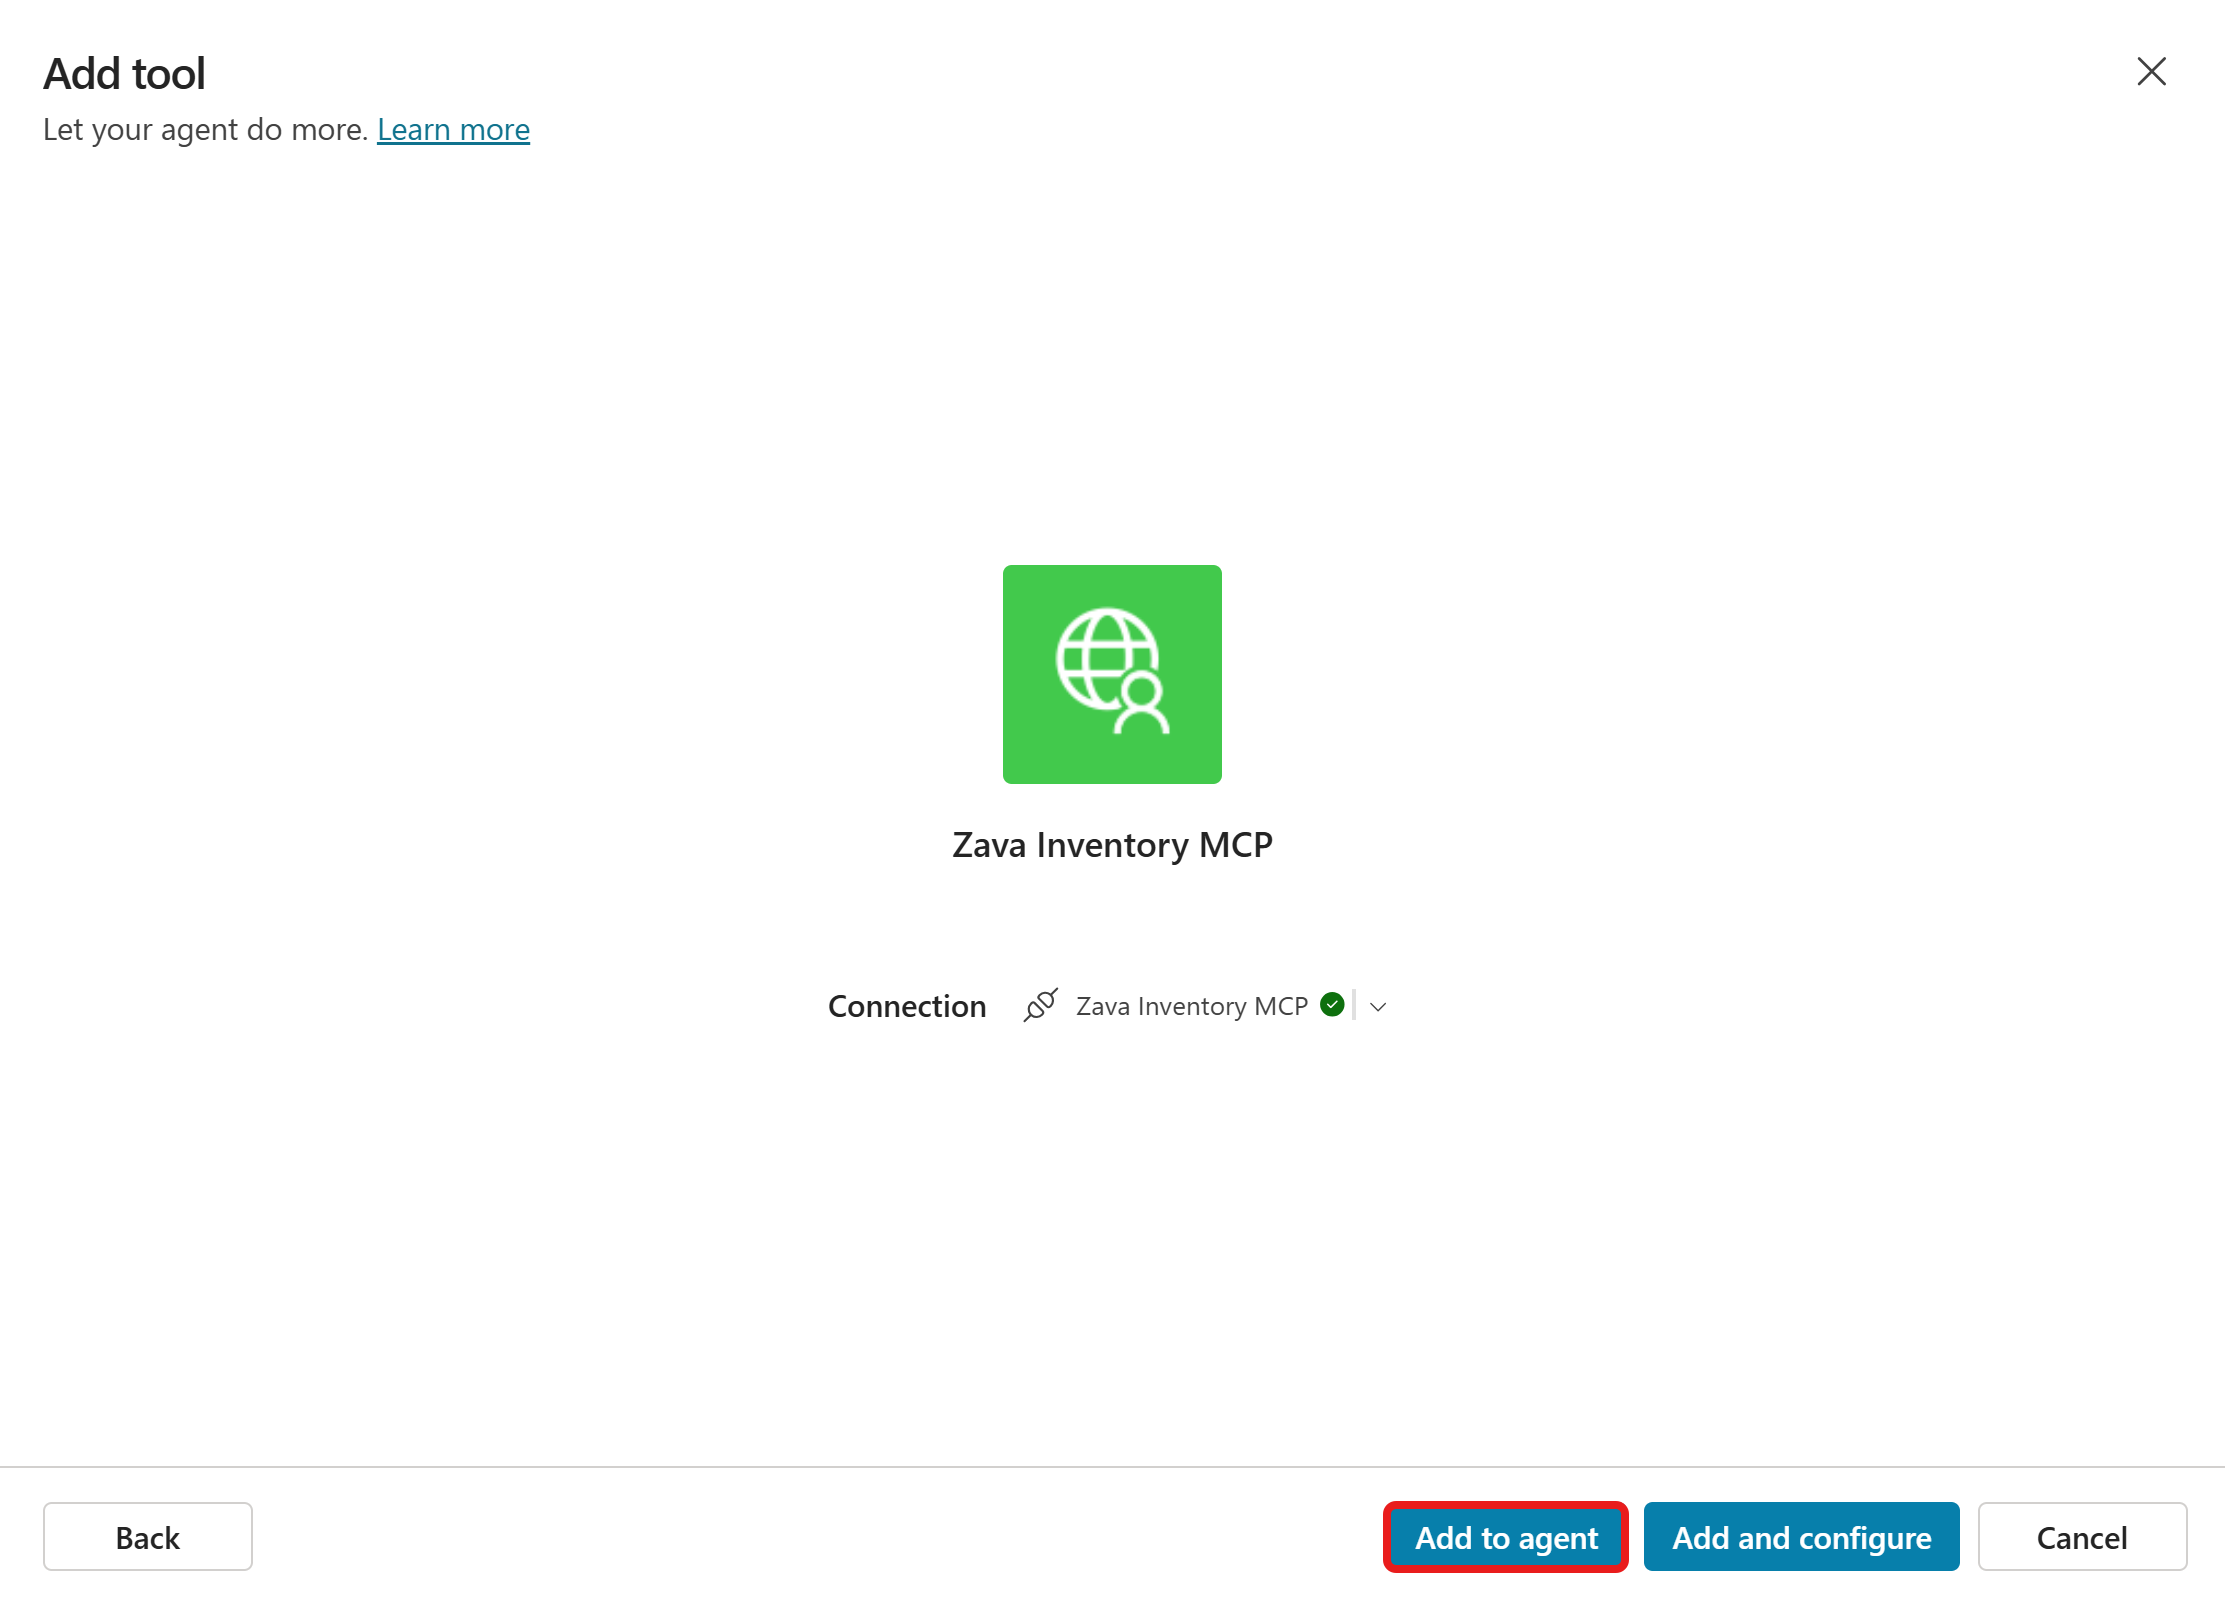
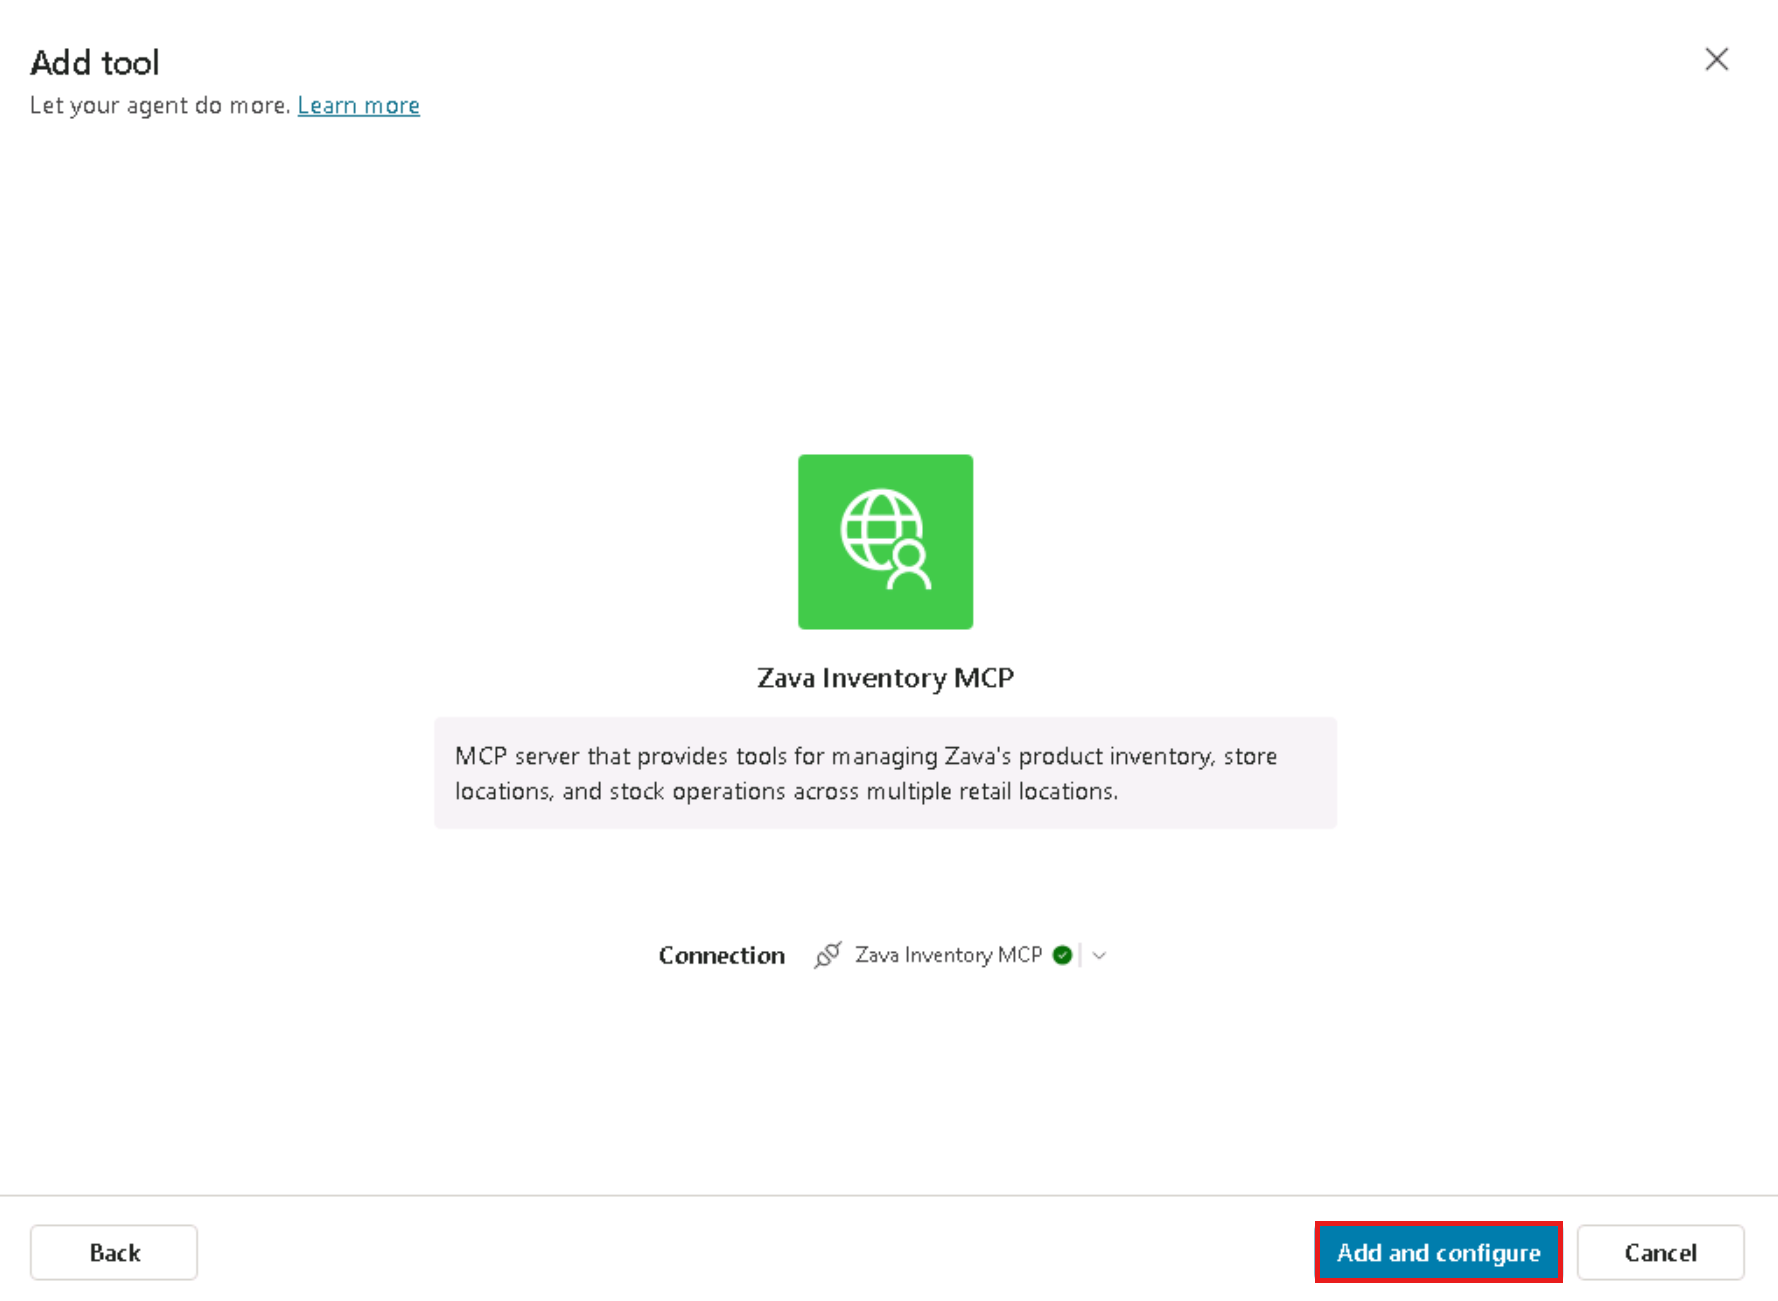
Added new instructions

diff --git a/lab/instructions/01-Build-Your-Agent-preview.md b/lab/instructions/01-Build-Your-Agent-preview.md
@@ -1,0 +1,138 @@
+# 1 - Build your agent
+
+To start, you're going to setup the foundation for your agent in Copilot Studio.
+
+1. Open Microsoft Edge and navigate to
+
+    <!-- markdownlint-disable-next-line MD034 -->
+    +++https://copilotstudio.microsoft.com+++
+
+    ![Open Edge](./assets/OpenEdge.png)
+
+1. Log in with
+
+    <!-- markdownlint-disable-next-line MD034 -->
+    **Username:** +++@lab.CloudCredential(CSBatch1).Username+++
+
+    <!-- markdownlint-disable-next-line MD034 -->
+    **Password:** +++@lab.CloudCredential(CSBatch1).Password+++
+
+1. Select **Next** at the *Let's keep your account secure* screen
+
+1. On the *Install Microsoft Authenticator* page, select **Setup a different authenticator** app
+
+    ![Set up a different authentication app](./assets/SetupDifferentAuthApp.png)
+
+1. On the *Set up your account in app* page, select **Next**
+
+1. Open the *Contoso Authenticator App* by selecting it on your desktop or on the task bar
+
+    ![Contoso Authenticator on the desktop](./assets/contoso-authenticator.png)
+
+1. If necessary, move the App to ensure that the QR Code is fully visible on the screen
+
+1. Select the **Scan QR from Screen** button and then **copy** the available 6-digit code
+
+    ![Scan QR from Screen](./assets/ScanQRCode.png)
+
+1. Select **OK** in the *Copied - OTP copied to clipboard* page
+
+1. On the web page, select **Next** and then paste the 6-digit code
+
+    ![Enter Code](./assets/EnterCode.png)
+
+1. On the *Authenticator app added* page, select **Done**
+
+1. On the *Stay signed in* page, select **Yes**
+
+1. After logging in, you'll see a message letting you know it's configuring your developer environment. Wait until that finishes (shouldn't take more than a minute)
+
+    ![Dev Environment Setup](./assets/DevEnvSetup.png)
+
+1. If you see a welcome screen like is shown below, select the country/region that you’re in from the dropdown and select **Get Started**
+
+    ![pic2.png](./assets/pic2.png)
+
+1. If you see a welcome message as shown in the screenshot below, select **Skip**.
+
+    ![step6.png](./assets/step6.png)
+
+1. In the left nav click **+ Create** button to start creating a new agent
+
+    ![create.png](./assets/AgentsLeftNav.png)
+
+1. Click **New agent**
+
+    ![create-new-agent.png](./assets/NewAgent.png)
+
+1. While we could use natural language to setup the agent for this exercise, we will skip and configure it manually by selecting the **Configure** tab.
+
+    ![step9.jpg](./assets/ConfigreTab.png)
+
+1. In the name field, type +++Zava Order Support+++ and then click the **Create** button
+
+    ![AgentName.png](./assets/ConfigureName.png)
+
+    > [!NOTE]
+    > It could take a minute or two for the agent to fully configure. You'll see a message that says your agent is provisioned when it's ready.
+
+1. Now that your agent is created, you need to equip it with knowledge so it can answer questions about the company, shipping policies, etc. To do this, in your agent overview screen, scroll down to the knowledge section and select the **Add Knowledge** tab.
+
+    ![AddKnowledge.png](./assets/AddKnowledgeBtn.png)
+
+1. Click the **select to browse** button and navigate to **D:\LabFiles\KnowledgeDocuments**. Select the **zava_faq** and **zava_returns_shipping_policy documents**.
+
+    ![DragAndDrop.png](./assets/DragAndDropFile.png)
+
+1. Verify the files are added and select **Add to Agent**
+
+    ![AddToAgent.png](./assets/UploadedFiles.png)
+
+1. You'll know your files are ready to use when you see the **Ready** checkbox next to each file.
+
+    ![Ready.png](./assets/Ready.png)
+
+    > [!NOTE]
+    > The process of uploading the files can take around 5 minutes to complete. You can continue on to the next steps while the files are processing.
+
+1. Now we need to tell the agent what it's supposed to do. To do this, scroll up to the **Instructions** section and select the **Edit** button and paste in the following instructions:
+
+    ```text
+    Your job is to help customers with Zava’s policies, product FAQs, shipping, returns, and general company info. Use only the supplied knowledge documents. Your behavior: Always consult the Knowledge sources (FAQ, Returns & Shipping Policy) for answers to customer questions in those domains. When you answer, provide a citation (which document and section) whenever possible. If the user asks about something not in the knowledge bases, reply with: “I’m sorry, I don’t have that info yet. Can I help with something in our policy or FAQ?” Use a friendly, professional tone. Be clear but avoid any technical jargon unless user knows them. Keep answers focused and concise. Break up longer responses with bullet lists or numbered steps if helpful.
+    ```
+
+    Click **Save**
+
+    ![SaveInstructions.png](./assets/SaveInstructions.png)
+
+1. Before we test to make sure the agent is following our instructions and pulling from our knowledge sources, we need to configure some settings. To do this, select the **Settings** button in the upper right hand corner.
+
+    ![SettingsBtn.png](./assets/SettingsBtn.png)
+
+1. Scroll down toward the bottom of the page to find the **Knowledge** section. The default behavior for all agents created in Copilot Studio is to allow the agent to use general knowledge from the model that it is using, which in our case is the GPT 4.1 default model. While this is great if you want your agent to be able to handle chit-chat type scenarios, if you only want your agent to use the knowledge sources and tools you provide it with to answer questions, having this setting on could potentially lead to hallucinations. So, depending on your use case, you might want to disable this setting. Since we want our agent to only use data from the knowledge sources we provide to answer questions, we will toggle the **Use general knowledge** setting to **Off**.
+
+    ![GeneralKnowledge.png](./assets/GenKnowledgeOff.png)
+
+1. Click the **Save** button at the bottom of the screen and select the **X** button in the upper right hand corner to close out of the settings screen.
+
+    ![CloseSettings.png](./assets/SaveSettings.png)
+
+1. Now we need to test the agent. Ensure that the test panel is open on the right hand side of the page, type in the following and press **Enter**
+
+    ```text
+    What is your return policy?
+    ```
+
+    ![TestBefore.png](./assets/TestBeforeEnter.png)
+  
+> [!NOTE]
+    > Don't forget to check that your files have finished uploading and show Ready status before testing.
+
+1. Review the output and notice the Activity Pane that displays on the left hand side showing where it pulled the answer from.
+
+    ![TestAfter.png](./assets/TestAfter.png)
+
+    > [!TIP]
+    > Given the nature of generative AI, your answer might differ from the answer shown in the screenshot above. That's ok and expected. The important thing here is to observe the Activity Map and how you can tell the agent is pulling from your knowledge.
+
+Congratulations! You have setup an agent that can answer questions about static data from files! Next ,we'll integrate it with an MCP server.

diff --git a/lab/instructions/02-Connect-To-An-MCP-Server.md b/lab/instructions/02-Connect-To-An-MCP-Server.md
@@ -221,7 +221,7 @@ We are going to fix this error in the next steps.
 
     ![Create Connection](./assets/MCPCreateConnection.png)
 
-1. Select **Add to agent**
+1. Select **Add and configure**
 
     ![Add to agent](./assets/AddToAgent.png)
 
